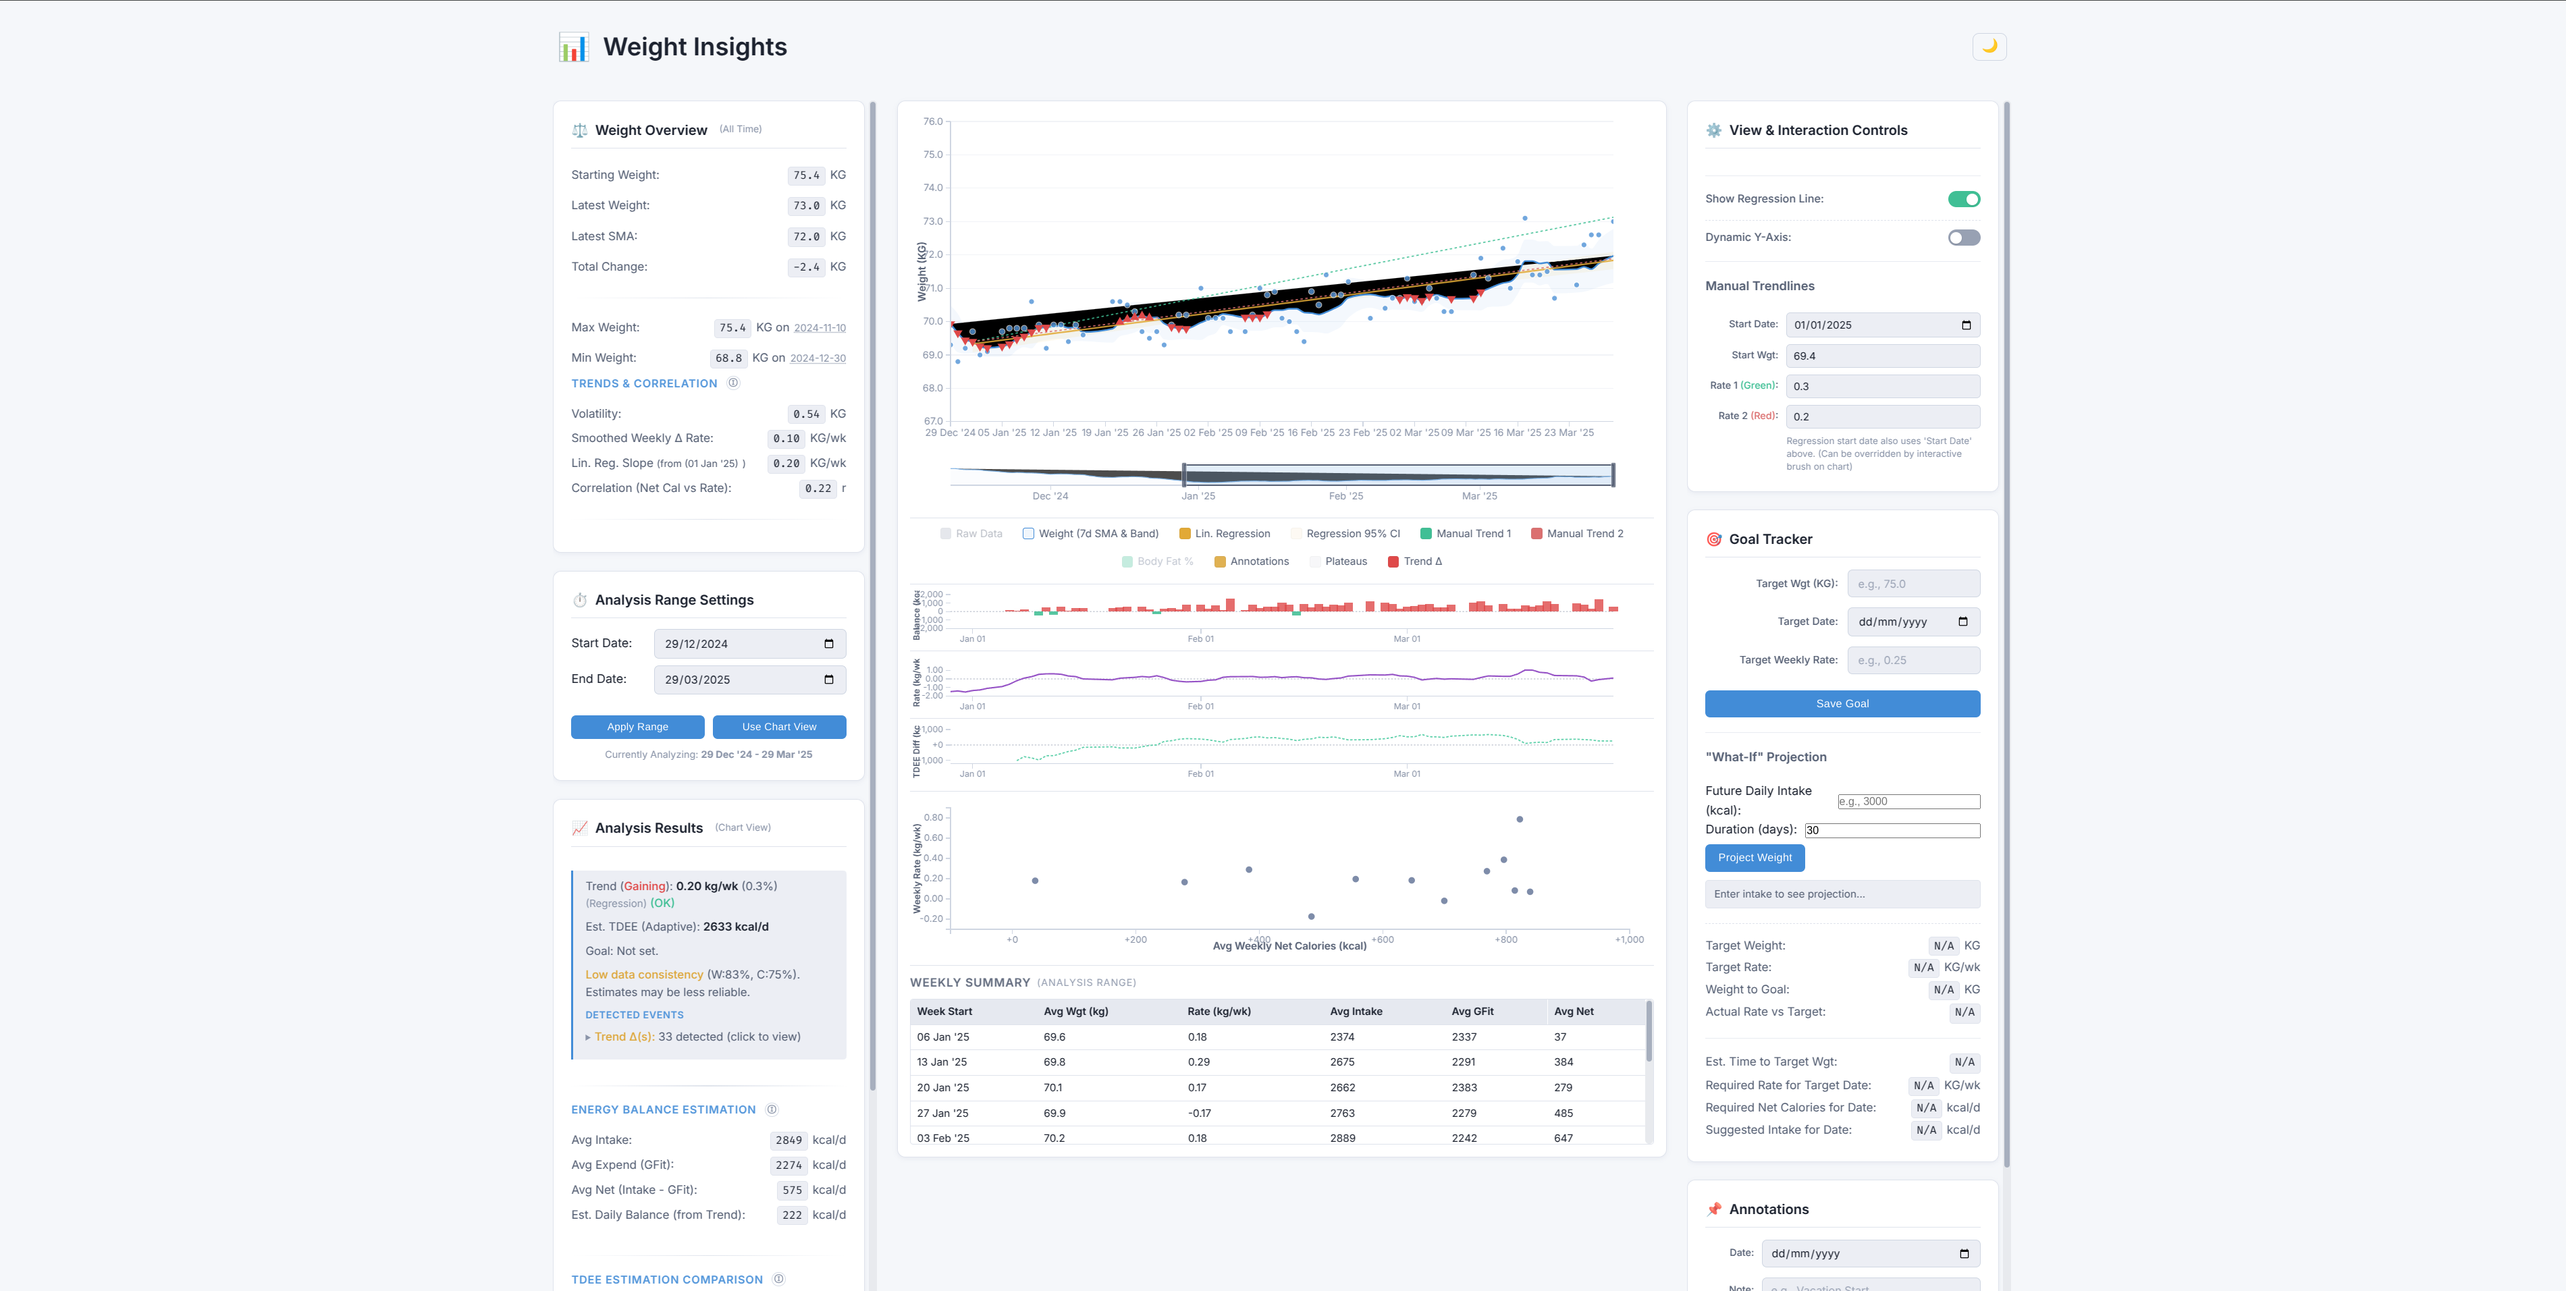
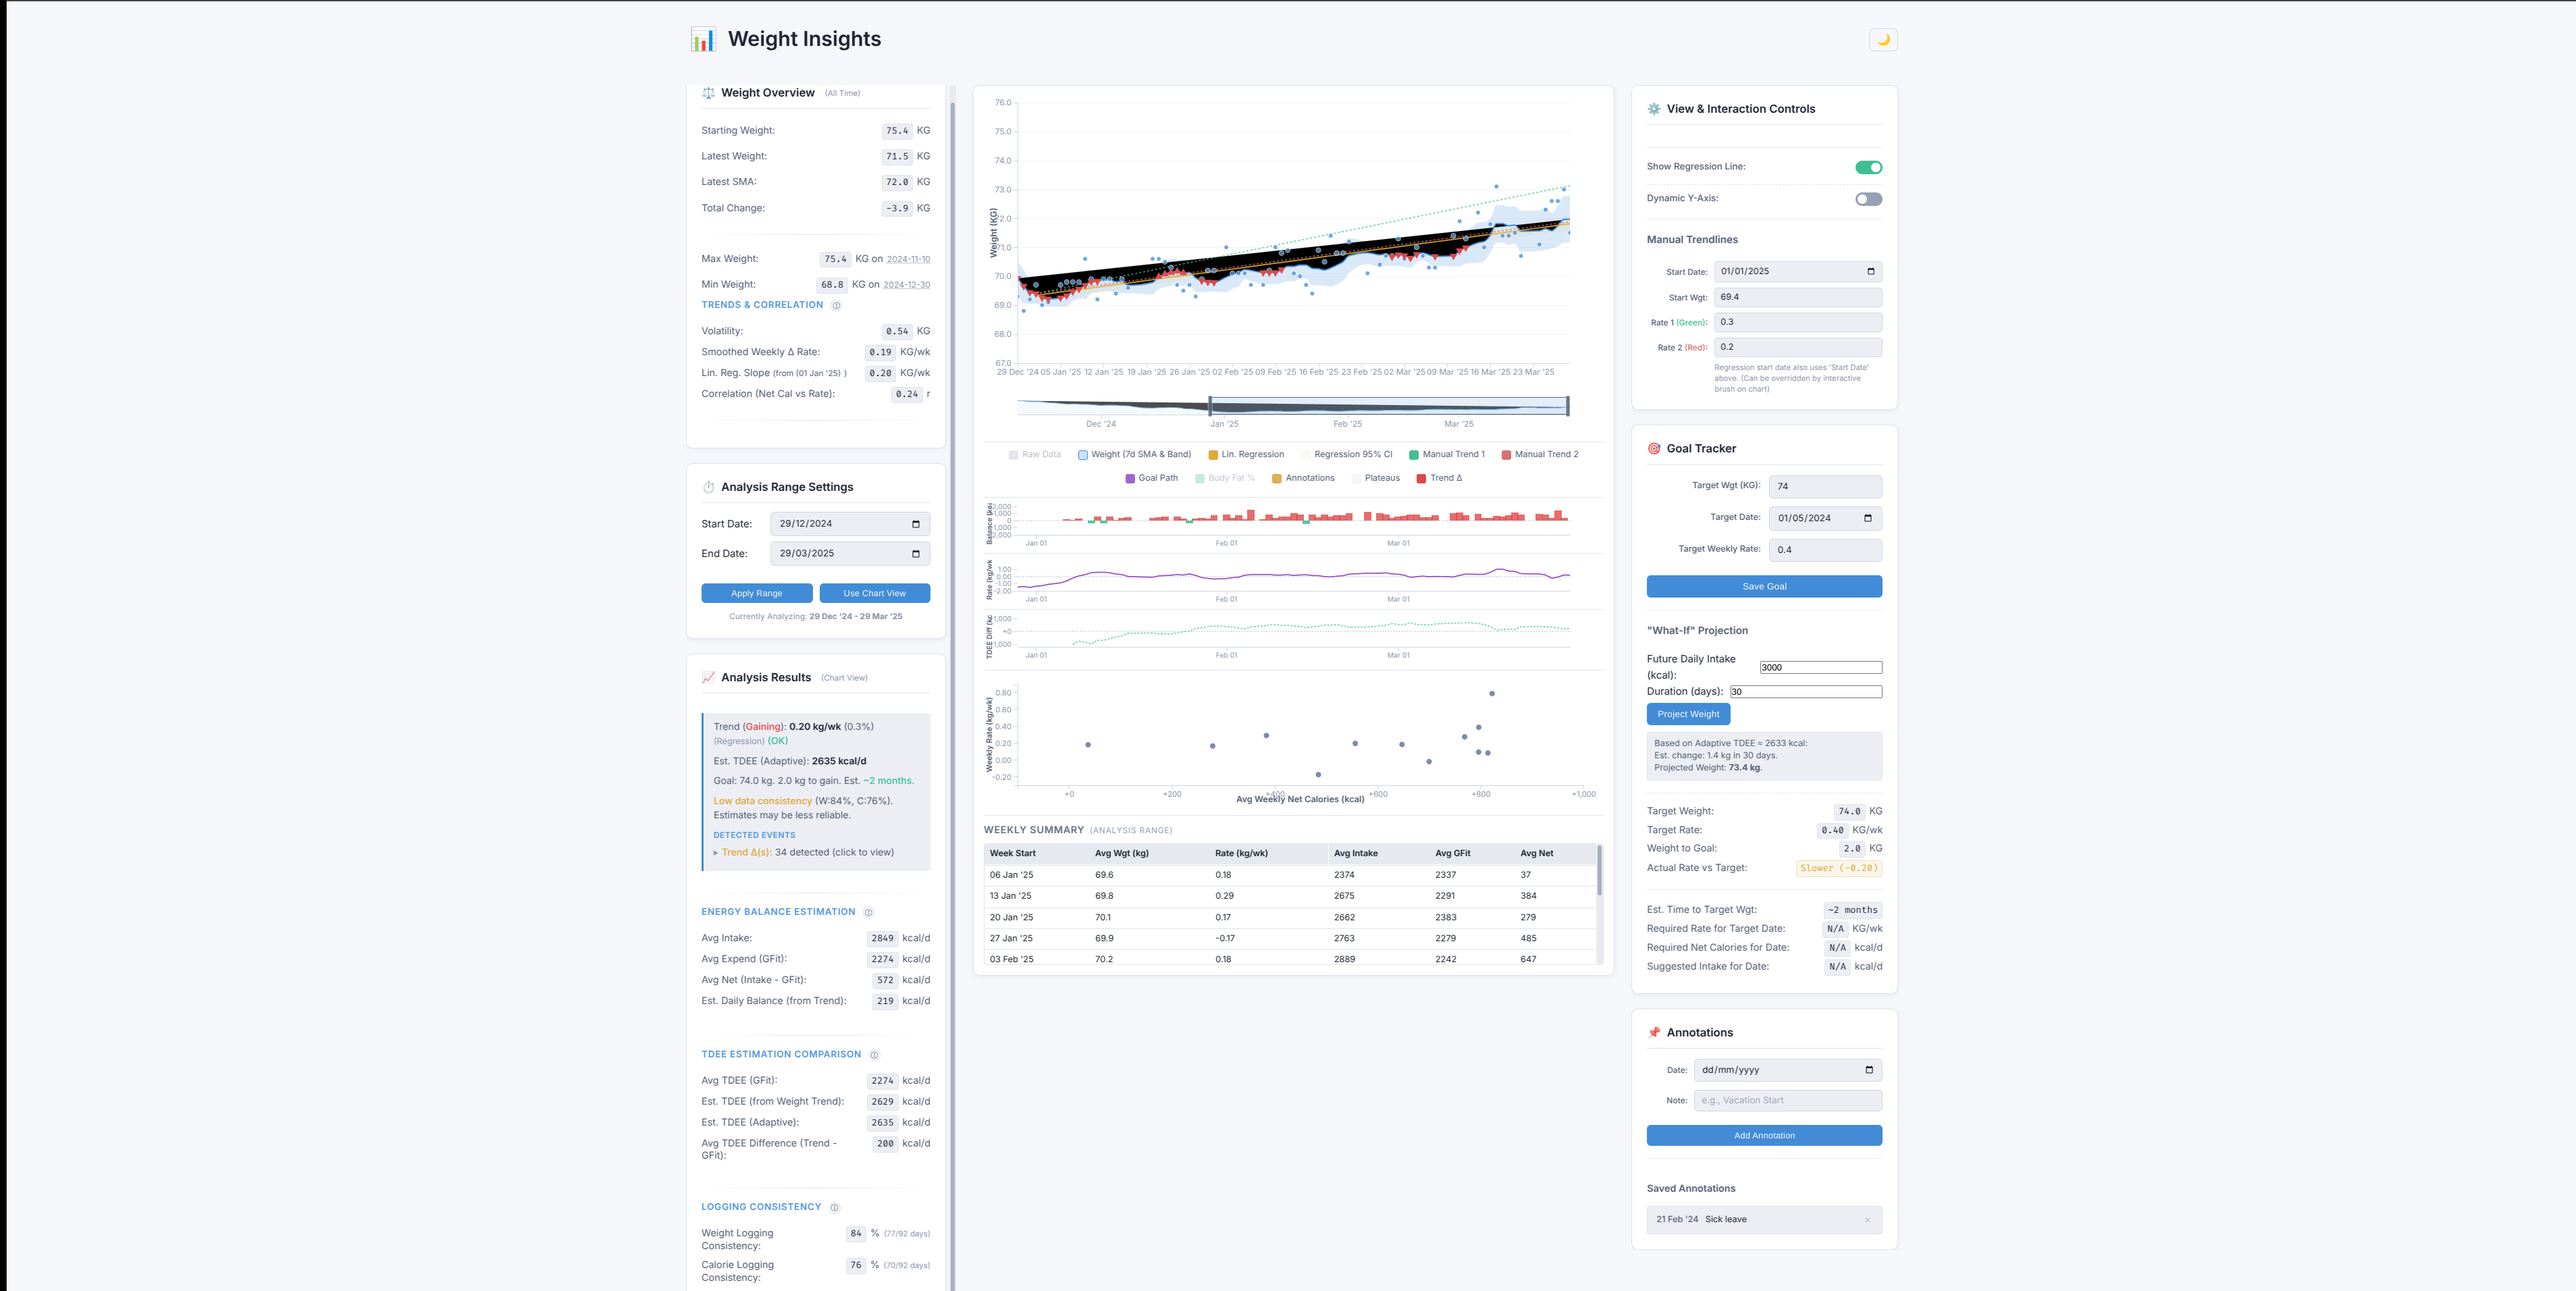
update visualisation

diff --git a/frontend/index.html b/frontend/index.html
@@ -504,14 +504,14 @@
                             <input
                                 type="date"
                                 id="trendStartDate"
-                                value="2025-03-04"
+                                value="2025-01-01"
                                 aria-label="Manual trendline start date"
                             />
                             <label for="trendInitialWeight">Start Wgt:</label>
                             <input
                                 type="number"
                                 id="trendInitialWeight"
-                                value="71.4"
+                                value="69.4"
                                 step="0.1"
                                 placeholder="e.g., 70.0"
                                 aria-label="Manual trendline initial weight in KG"

diff --git a/frontend/style.css b/frontend/style.css
@@ -58,7 +58,7 @@
 
     /* Chart Specific */
     --sma-color: var(--primary-color);
-    --band-color: hsla(var(--hue-primary), 70%, 55%, 0.08);
+    --band-color: hsla(var(--hue-primary), 70%, 55%, 0.25);
     --raw-dot-color: hsl(var(--hue-neutral), 15%, 78%);
     --dot-color: var(--primary-color);
     --trend1-color: var(--secondary-color);
@@ -129,7 +129,7 @@ body.dark-theme {
     --tooltip-text: hsl(var(--hue-neutral), 15%, 15%);
     --scrollbar-thumb: hsl(var(--hue-neutral), 15%, 35%);
     --scrollbar-track: hsl(var(--hue-neutral), 15%, 20%);
-    --band-color: hsla(var(--hue-primary), 60%, 65%, 0.08);
+    --band-color: hsla(var(--hue-primary), 60%, 65%, 0.25);
     --raw-dot-color: hsl(var(--hue-neutral), 10%, 35%);
     --outlier-color: var(--tertiary-color);
     --deficit-color: hsl(var(--hue-secondary), 55%, 55%);

diff --git a/frontend/chart.js b/frontend/chart.js
@@ -3561,7 +3561,6 @@ const WeightTrackerChart = (function () {
             d.smoothedWeeklyRate != null &&
             !isNaN(d.smoothedWeeklyRate),
         );
-        // MODIFIED: Reduced min points for scatter slightly to get more data points
         if (validPoints.length >= 3) {
           const avgNetCal = d3.mean(validPoints, (d) => d.netBalance);
           const avgWeeklyRate = d3.mean(
@@ -4528,8 +4527,6 @@ const WeightTrackerChart = (function () {
         .attr("transform", "scale(1)");
       EventHandlers._hideTooltip();
     },
-
-    // --- Rest of Event Handlers (Unchanged from previous versions) ---
 
     updatePinnedTooltipDisplay() {
       if (!ui.pinnedTooltipContainer) return;
